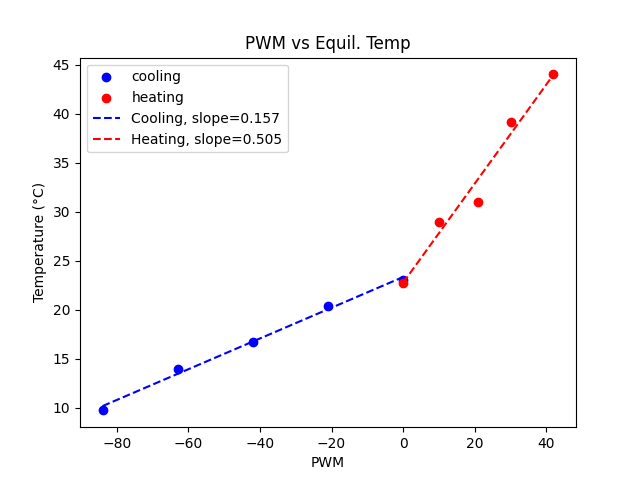
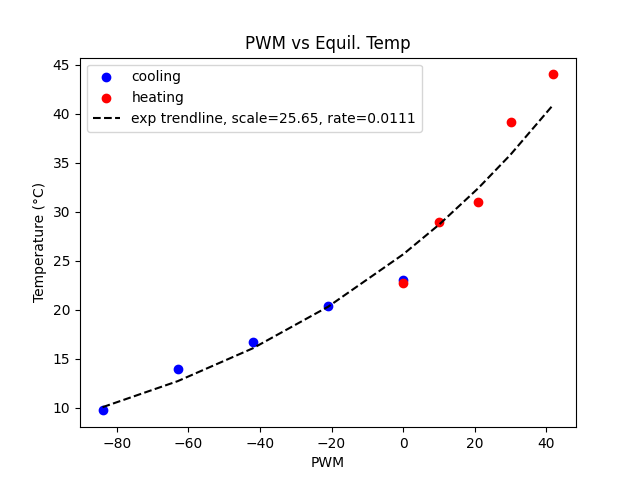
part 5.1plot code

diff --git a/Lab4/Lab4Codes/lab4part4plot.py b/Lab4/Lab4Codes/lab4part4plot.py
@@ -1,30 +1,16 @@
 import matplotlib.pyplot as plt
+import pandas as pd
 import numpy as np
 
-data_10x2 = np.array([
-    [-84,  9.75],
-    [-63, 14.00],
-    [-42, 16.70],
-    [-21, 20.40],
-    [  0, 23.00],
-    [  0, 22.70],
-    [ 10, 29.00],
-    [ 21, 31.00],
-    [ 30, 39.14],
-    [ 42, 44.00]
-])
+
 
 x, y = [-84, -63, -42, -21, 0, 0, 10, 21, 30, 42], [9.75, 14, 16.7, 20.4, 23, 22.7, 29, 31, 39.14, 44]
 plt.scatter(x[:5], y[:5], color='b', label='cooling')
 plt.scatter(x[5:], y[5:], color='r', label='heating')
-plt.plot(x[:5], np.poly1d(np.polyfit(x[:5], y[:5], 1))(x[:5]), 'b--', label='Cooling, slope=0.157')
-plt.plot(x[5:], np.poly1d(np.polyfit(x[5:], y[5:], 1))(x[5:]), 'r--', label='Heating, slope=0.505')
 
-slope_cooling = np.polyfit(x[:5], y[:5], 1)[0]
-slope_heating = np.polyfit(x[5:], y[5:], 1)[0]
-print(slope_cooling)
-print(slope_heating)
-
+b, ln_a = np.polyfit(np.array(x), np.log(y), 1)
+plt.plot(x, np.exp(ln_a) * np.exp(b * np.array(x)), 'k--',label="exp trendline, scale=25.65, rate=0.0111")
+print(f"Fit Results -> Scale (a): {np.exp(ln_a):.4f}, Growth Rate (b): {b:.4f}")
 
 plt.title("PWM vs Equil. Temp")
 plt.xlabel("PWM")

diff --git a/Lab4/Lab4Codes/lab4part5_1plot.py b/Lab4/Lab4Codes/lab4part5_1plot.py
@@ -1,0 +1,34 @@
+import matplotlib.pyplot as plt
+import pandas as pd
+import numpy as np
+
+data_10x2 = np.array([
+    [-84,  9.75],
+    [-63, 14.00],
+    [-42, 16.70],
+    [-21, 20.40],
+    [  0, 23.00],
+    [  0, 22.70],
+    [ 10, 29.00],
+    [ 21, 31.00],
+    [ 30, 39.14],
+    [ 42, 44.00]
+])
+
+x, y = [-84, -63, -42, -21, 0, 0, 10, 21, 30, 42], [9.75, 14, 16.7, 20.4, 23, 22.7, 29, 31, 39.14, 44]
+plt.scatter(x[:5], y[:5], color='b', label='cooling')
+plt.scatter(x[5:], y[5:], color='r', label='heating')
+plt.plot(x[:5], np.poly1d(np.polyfit(x[:5], y[:5], 1))(x[:5]), 'b--', label='Cooling, slope=0.157')
+plt.plot(x[5:], np.poly1d(np.polyfit(x[5:], y[5:], 1))(x[5:]), 'r--', label='Heating, slope=0.505')
+
+slope_cooling = np.polyfit(x[:5], y[:5], 1)[0]
+slope_heating = np.polyfit(x[5:], y[5:], 1)[0]
+print(slope_cooling)
+print(slope_heating)
+
+
+plt.title("PWM vs Equil. Temp")
+plt.xlabel("PWM")
+plt.ylabel("Temperature (°C)")
+plt.legend()
+plt.savefig('lab4part5.png')
